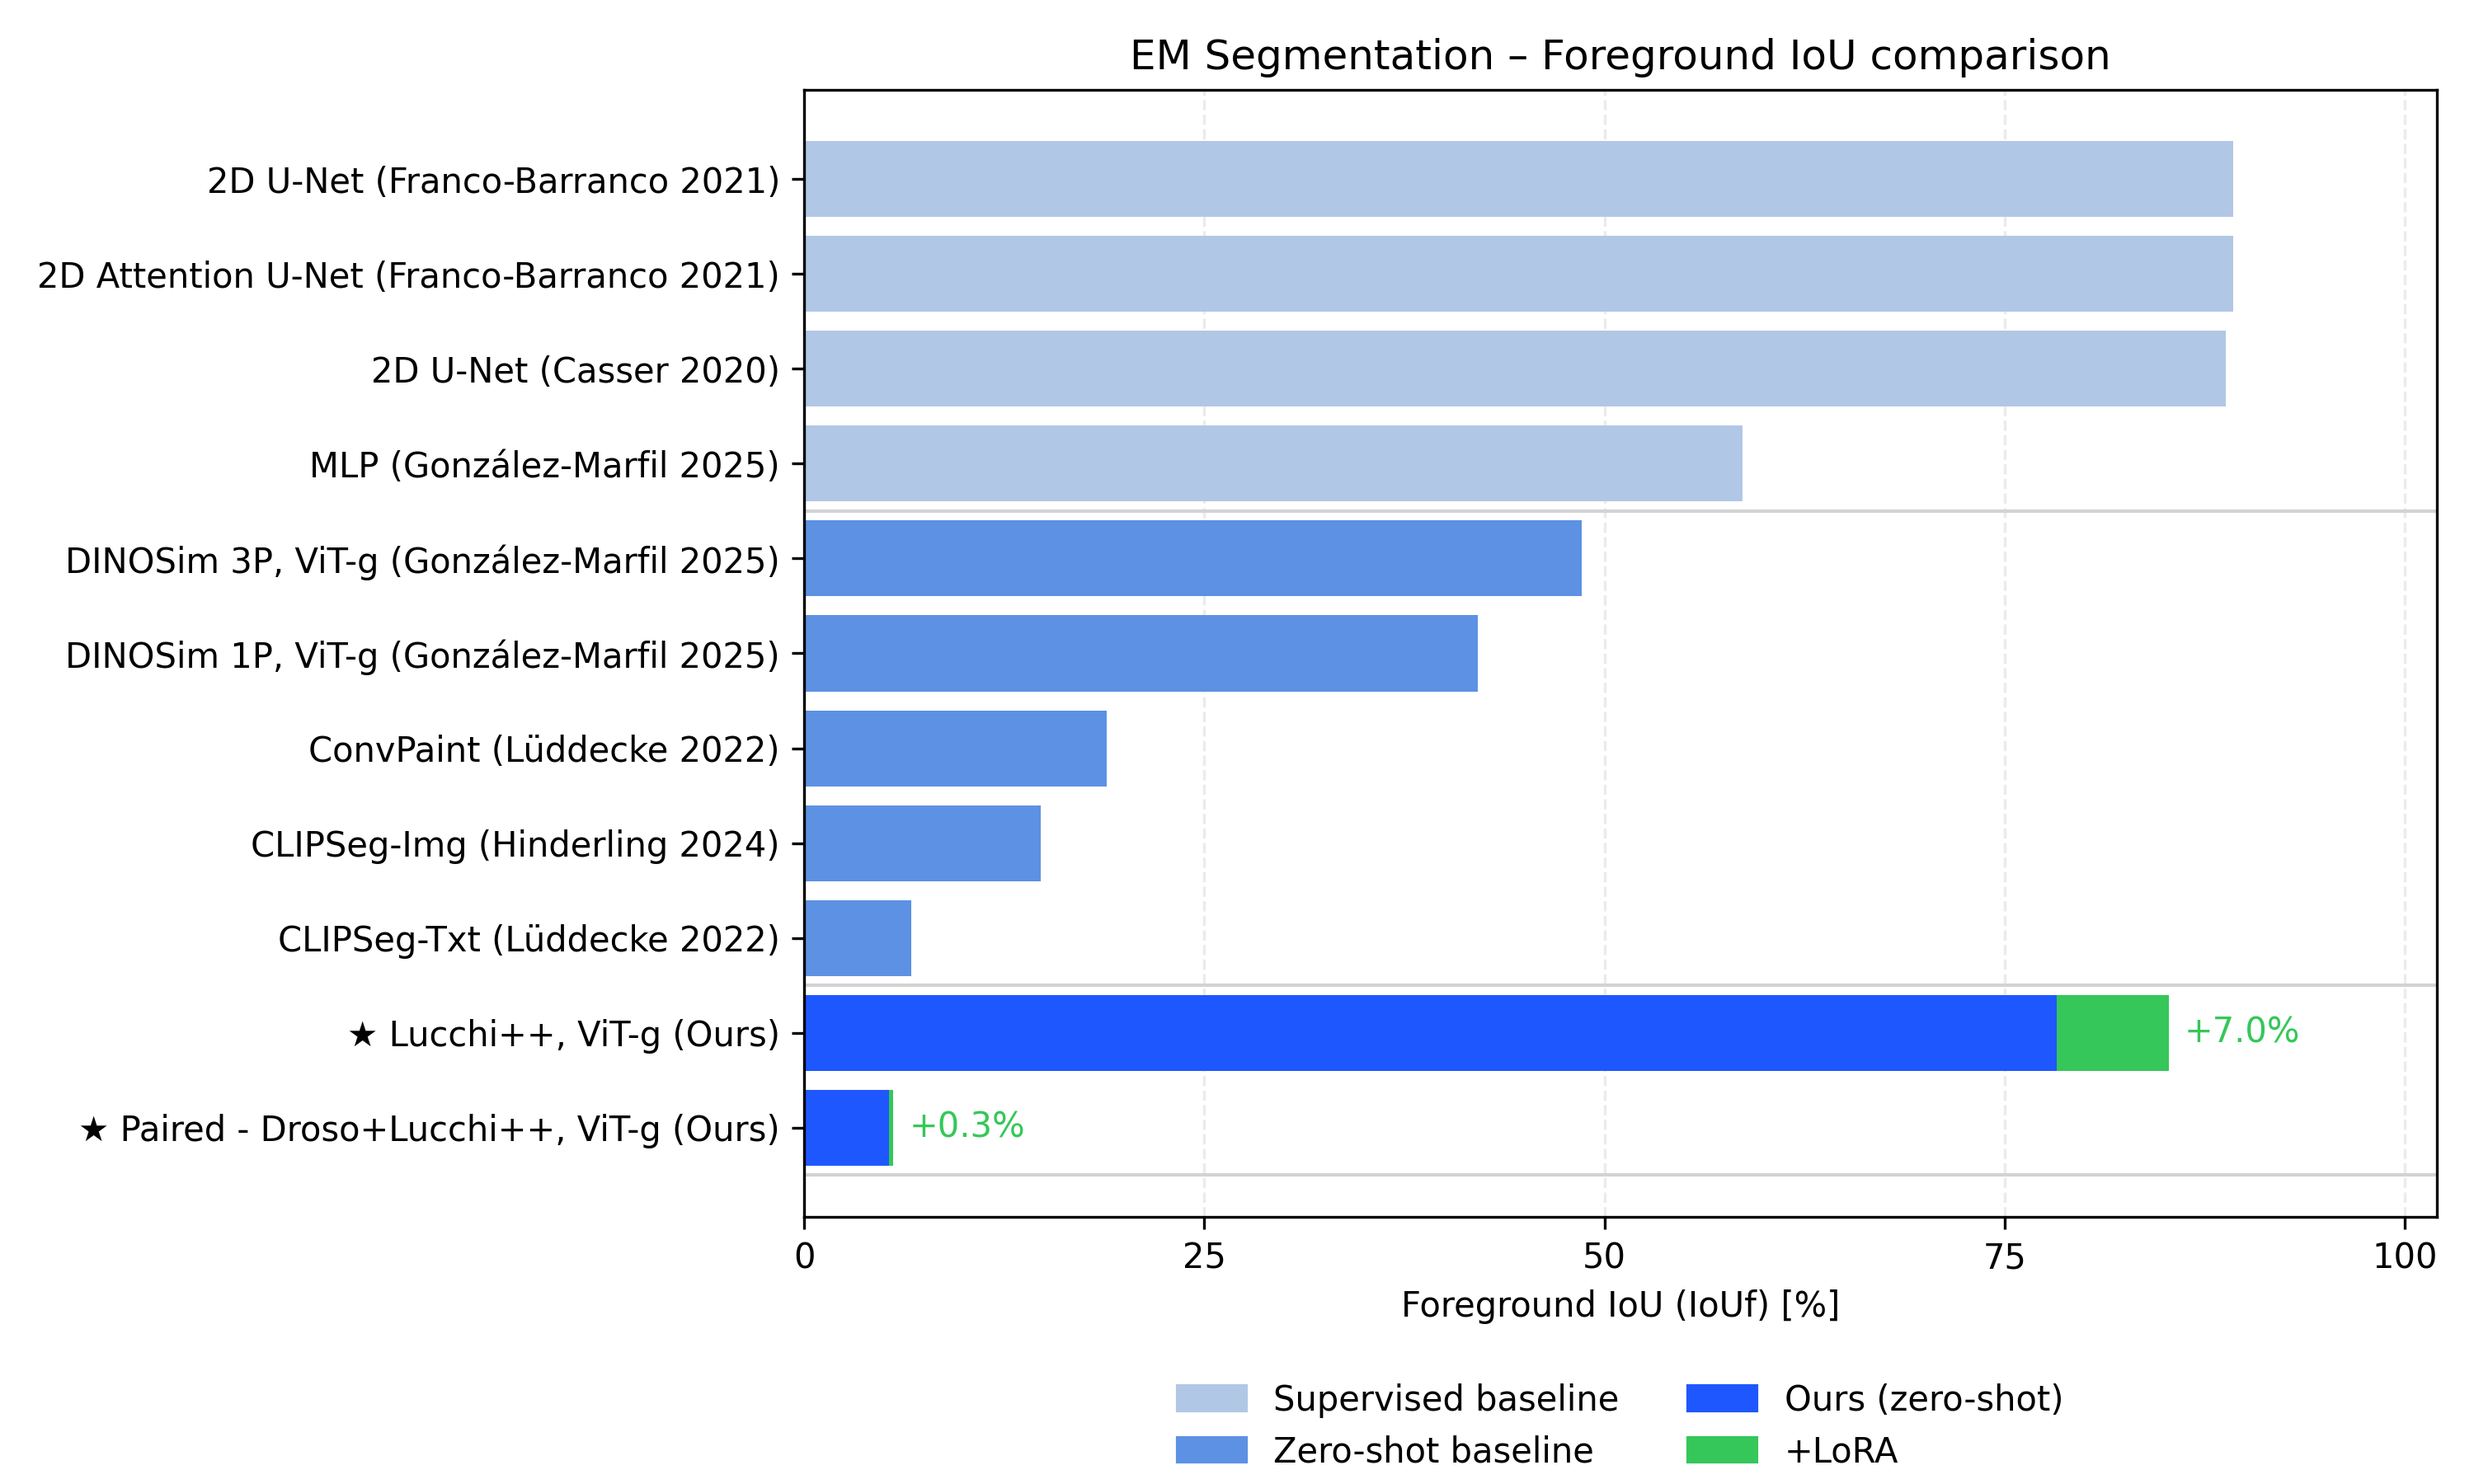
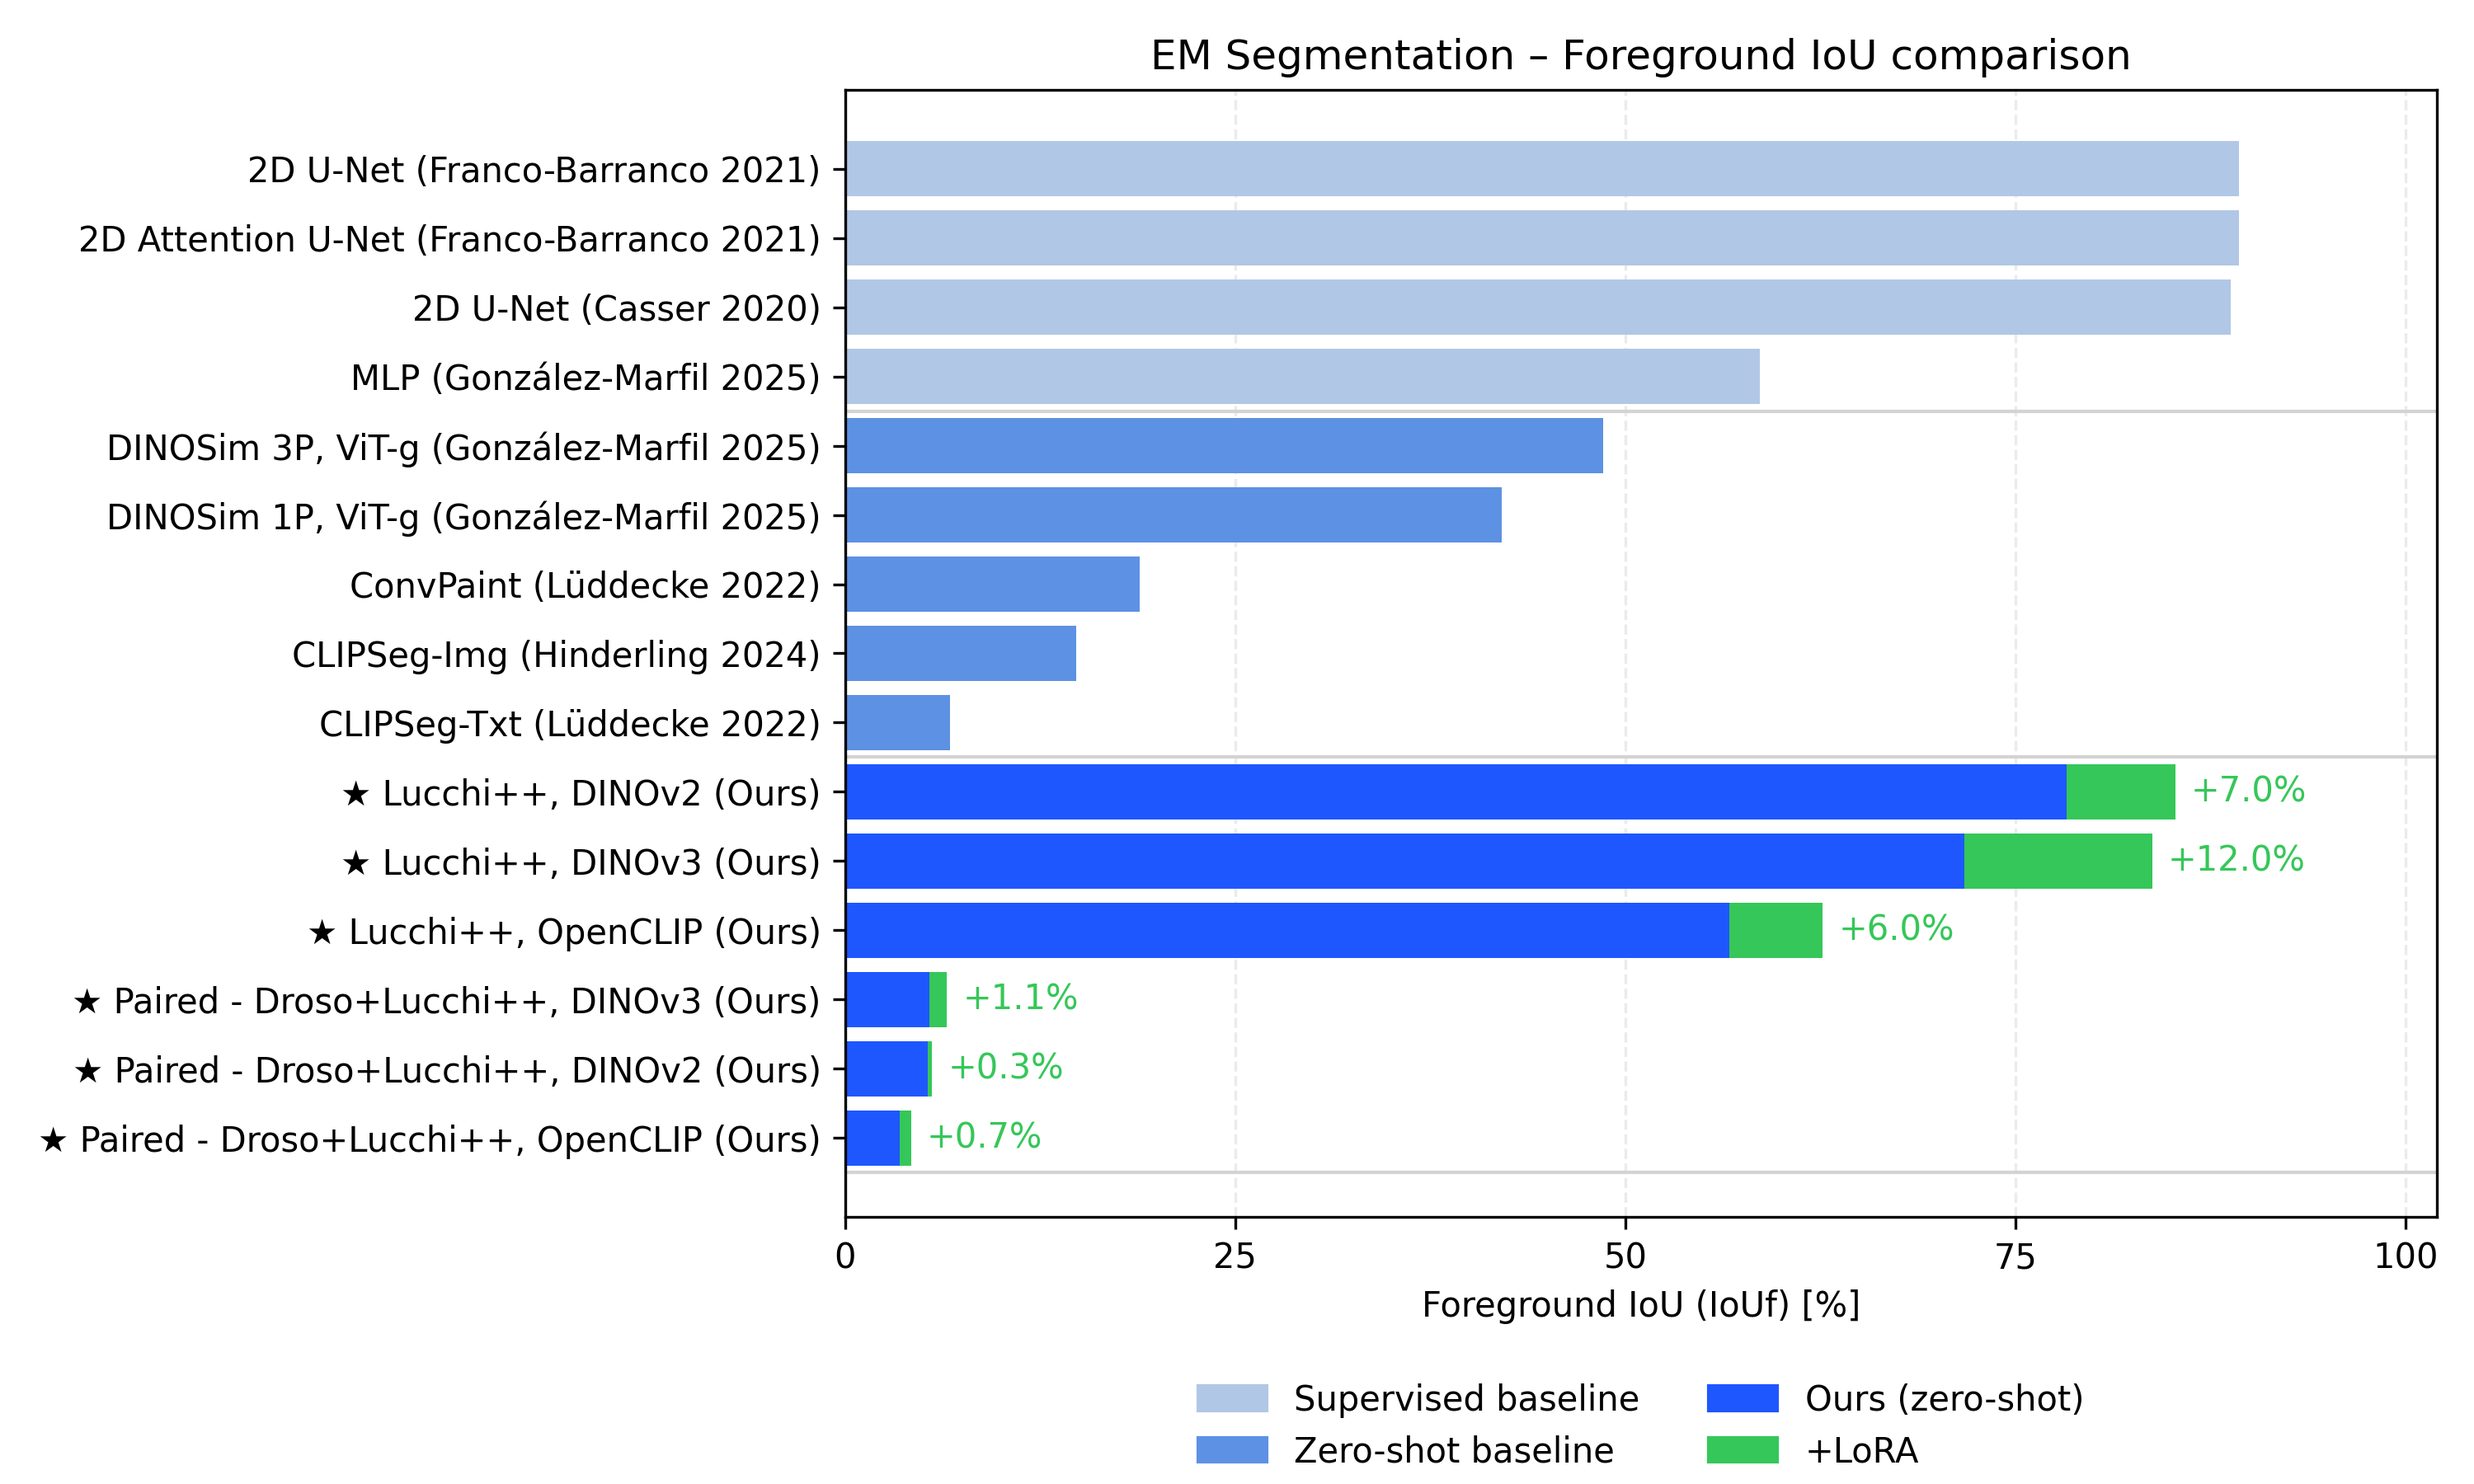
editing fancy plot

diff --git a/scripts/analysis/fancy_plot.py b/scripts/analysis/fancy_plot.py
@@ -3,10 +3,15 @@ import numpy as np
 import matplotlib.pyplot as plt
 from matplotlib.patches import Patch
 from pathlib import Path
+import re
 
-# === 1) Load your summary and extract ViT-g (giant) results ===
-summary_path = Path("/Users/cfuste/Documents/Results/20251201-cluster-backup/seg/summary/summary.csv")
-df = pd.read_csv(summary_path)
+# === 1) Load summaries and extract the largest model per backbone ===
+summary_dir = Path("/Users/cfuste/Documents/Results/DINO-LoRA/seg/summary-output")
+summary_files = {
+    "DINOv2": "summary-dinov2.csv",
+    "DINOv3": "summary-dinov3.csv",
+    "OpenCLIP": "summary-openclip.csv",
+}
 
 metric_col = "foreground_iou_mean"  # IoUf
 
@@ -17,24 +22,77 @@ ours_color       = "#1f57ff"   # yellow
 improve_color    = "#35C759"   # green
 worse_color      = "#FF3B30"   # red
 
-# Filter to ViT-g only
-df_g = df[df["dino_size"] == "giant"].copy()
+SIZE_RANK = {
+    "tiny": 0,
+    "small": 1,
+    "base": 2,
+    "large": 3,
+    "giant": 4,
+    "huge": 5,
+}
+VIT_RANK = {
+    "vit-s": 0,
+    "vit-b": 1,
+    "vit-l": 2,
+    "vit-g": 3,
+    "vit-h": 4,
+    "vit-bigg": 5,
+}
 
-def get_pair(dataset_type):
-    base_val = df_g[
-        (df_g["dataset_type"] == dataset_type) &
-        (df_g["use_lora"] == False)
+def _normalize_bool(series: pd.Series) -> pd.Series:
+    mapping = {"true": True, "false": False, "1": True, "0": False}
+    return (
+        series.astype(str).str.strip().str.lower().map(mapping, na_action="ignore").fillna(False)
+    )
+
+def _rank_size(value: str) -> int:
+    s = str(value).strip().lower()
+    if s in SIZE_RANK:
+        return SIZE_RANK[s]
+    match = re.match(r"vit[-_]?([a-z]+)", s)
+    if match:
+        key = f"vit-{match.group(1)}"
+        return VIT_RANK.get(key, -1)
+    return -1
+
+def _load_summary(label: str, filename: str) -> pd.DataFrame:
+    path = summary_dir / filename
+    if not path.is_file():
+        raise FileNotFoundError(f"{label} summary not found: {path}")
+    df = pd.read_csv(path)
+    df["dino_size"] = df["dino_size"].astype(str).str.lower()
+    df["dataset_type"] = df["dataset_type"].astype(str).str.lower()
+    df["use_lora"] = _normalize_bool(df["use_lora"])
+    return df
+
+def _select_largest_model(df: pd.DataFrame) -> pd.DataFrame:
+    ranks = df["dino_size"].apply(_rank_size)
+    if ranks.max() < 0:
+        sizes = sorted(df["dino_size"].unique().tolist())
+        raise RuntimeError(f"Unable to rank model sizes from: {sizes}")
+    return df.loc[ranks == ranks.max()].copy()
+
+def get_pair(df: pd.DataFrame, dataset_type: str) -> tuple[float, float]:
+    dataset_type = dataset_type.lower()
+    base_val = df[
+        (df["dataset_type"] == dataset_type) &
+        (df["use_lora"] == False)
     ][metric_col].iloc[0]
 
-    lora_val = df_g[
-        (df_g["dataset_type"] == dataset_type) &
-        (df_g["use_lora"] == True)
+    lora_val = df[
+        (df["dataset_type"] == dataset_type) &
+        (df["use_lora"] == True)
     ][metric_col].iloc[0]
 
     return base_val, lora_val
 
-lucchi_base, lucchi_lora = get_pair("lucchi")
-paired_base, paired_lora = get_pair("paired")
+summary_data = {}
+for label, filename in summary_files.items():
+    summary_df = _select_largest_model(_load_summary(label, filename))
+    summary_data[label] = {
+        "paired": get_pair(summary_df, "paired"),
+        "lucchi": get_pair(summary_df, "lucchi"),
+    }
 
 # === 2) External baselines (from the papers) ===
 # All values are foreground IoU in [0, 1].
@@ -57,23 +115,27 @@ external_df = pd.DataFrame(external_rows)
 external_df["new"] = np.nan    # no LoRA overlay for these
 external_df["is_ours"] = False
 
-# === 3) Your methods (Lucchi++ & Paired, ViT-g) ===
-our_rows = [
-    {
-        "label": "Paired - Droso+Lucchi++, ViT-g (Ours)",
-        "group": "Ours",
-        "baseline": paired_base,
-        "new": paired_lora,
-        "is_ours": True,
-    },
-    {
-        "label": "Lucchi++, ViT-g (Ours)",
-        "group": "Ours",
-        "baseline": lucchi_base,
-        "new": lucchi_lora,
-        "is_ours": True,
-    },
-]
+# === 3) Your methods (Lucchi++ & Paired, largest model per backbone) ===
+our_rows = []
+for label in ("DINOv2", "DINOv3", "OpenCLIP"):
+    paired_base, paired_lora = summary_data[label]["paired"]
+    lucchi_base, lucchi_lora = summary_data[label]["lucchi"]
+    our_rows.extend([
+        {
+            "label": f"Paired - Droso+Lucchi++, {label} (Ours)",
+            "group": "Ours",
+            "baseline": paired_base,
+            "new": paired_lora,
+            "is_ours": True,
+        },
+        {
+            "label": f"Lucchi++, {label} (Ours)",
+            "group": "Ours",
+            "baseline": lucchi_base,
+            "new": lucchi_lora,
+            "is_ours": True,
+        },
+    ])
 
 our_df = pd.DataFrame(our_rows)
 
